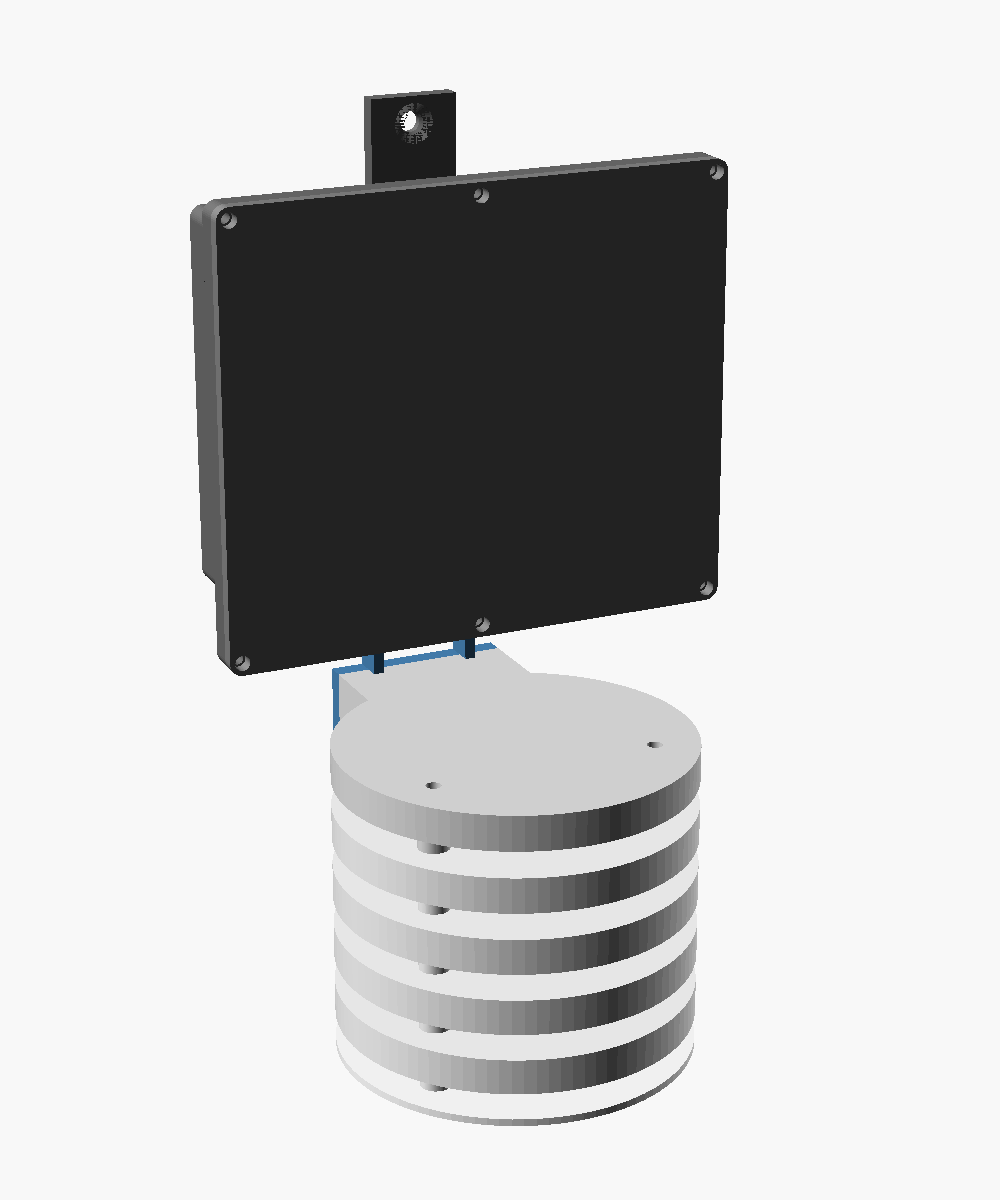
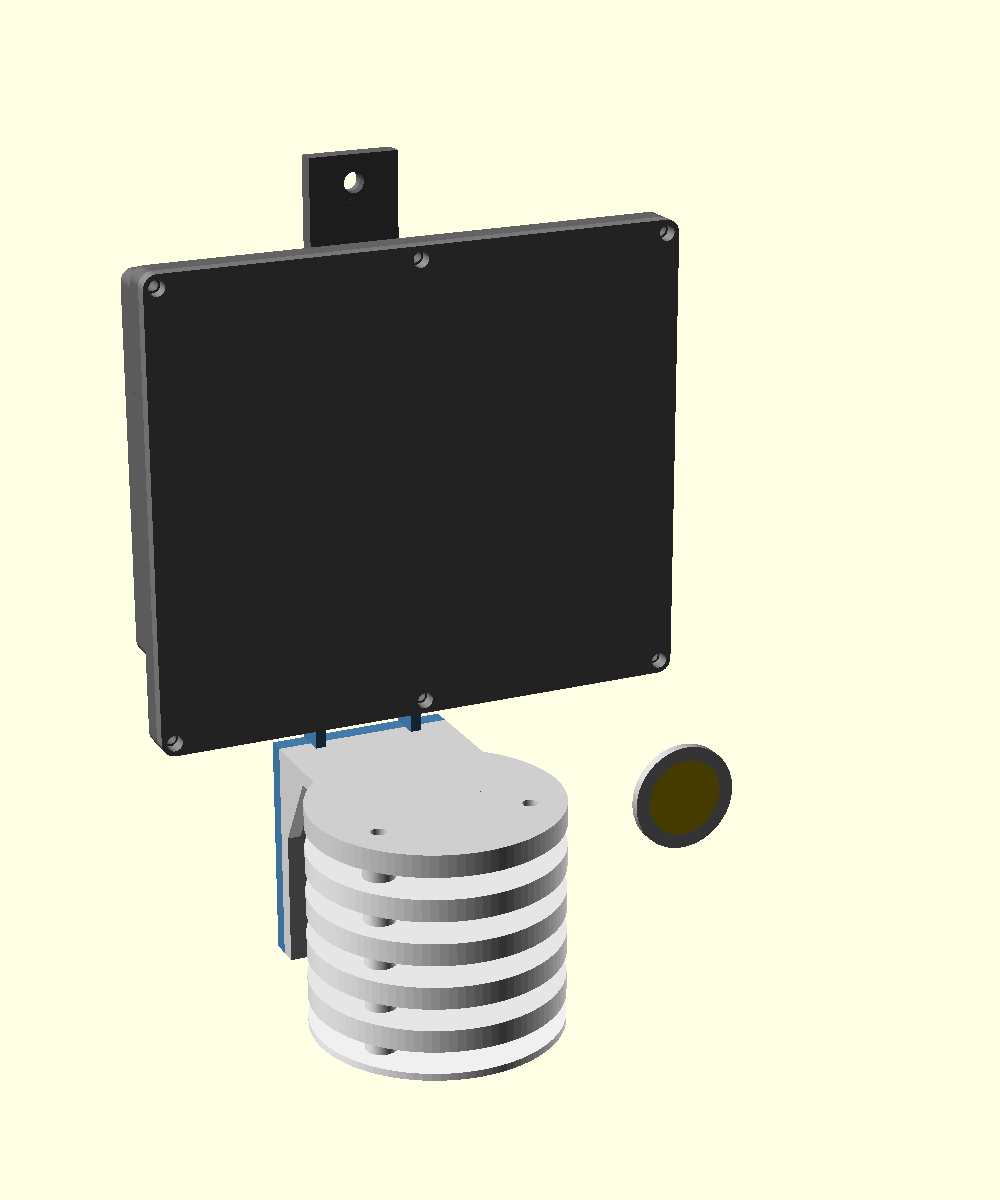
hw: side cable gland, table stand, smaller sensor shield, open-box render
- tinysensor_box.scad: PG7 gland moved to the side wall by default
  (gland_side = left/right/bottom), under the flange chamfer; new
  part="open" render with the board inside and the lid flipped beside
- stand.scad: table stand (mast screwed on the box wall ears + foot with
  socket) to stand box + clipped shield upright
- sensor_shield.scad: shield shrunk from D80 x 72 to D56 x 52 mm
  (column 26, pitch 10, skirt 5); assembly/stand realigned
- pcb.scad: simplified v2.2 board + 18650 from the KiCad positions
- euro2.scad: 2-euro coin for scale in all renders
- renders: rendu.png, rendu_pied.png, rendu_ouvert.png; README updated

Changed region(s): [[0.124, 0.0617, 0.744, 0.9558]]

diff --git a/openscad/README.md b/openscad/README.md
@@ -2,13 +2,22 @@
 
 Modèles OpenSCAD paramétriques (testés avec OpenSCAD 2021.01). Matière visée : **PETG**.
 
-![Vue d'ensemble](rendu.png)
+| Au mur | Sur pied |
+|---|---|
+| ![Vue d'ensemble au mur](rendu.png) | ![Vue d'ensemble sur pied](rendu_pied.png) |
+
+![Boîtier ouvert : carte et accu 18650](rendu_ouvert.png)
+
+Pièce de 2 € (Ø25,75 mm) dans les rendus pour l'échelle.
 
 | Fichier | Contenu |
 |---|---|
 | `tinysensor_box.scad` | Boîtier mural principal (base + couvercle) |
 | `sensor_shield.scad` | Abri de sonde extérieur pour breakout BMx280 + clip optionnel |
-| `assembly.scad` | Vue d'ensemble (boîtier + abri clipsé), sert à générer `rendu.png` |
+| `stand.scad` | Pied de table : mât + semelle, pour poser boîtier + abri debout |
+| `pcb.scad` | Représentation simplifiée de la carte v2.2 et de l'accu 18650 (rendus uniquement) |
+| `euro2.scad` | Pièce de 2 € pour l'échelle des rendus |
+| `assembly.scad` | Vue d'ensemble (boîtier + abri clipsé, au mur ou sur pied), sert à générer `rendu.png` et `rendu_pied.png` |
 
 > Statut : **non imprimé, non validé**. Jeux et serrages à confirmer au premier tirage.
 
@@ -26,7 +35,12 @@ openscad -D 'part="cap"'   -o out/shield_cap.3mf   sensor_shield.scad
 openscad -D 'part="plate"' -o out/shield_plate.3mf sensor_shield.scad   # x4
 openscad -D 'part="base"'  -o out/shield_base.3mf  sensor_shield.scad
 openscad -D 'part="clip"'  -o out/shield_clip.3mf  sensor_shield.scad   # option
+# Pied de table (option)
+openscad -D 'part="mast"' -o out/stand_mast.3mf stand.scad
+openscad -D 'part="foot"' -o out/stand_foot.3mf stand.scad
 ```
+
+Rendu boîtier ouvert : `openscad --preview -D 'part="open"' --camera=110,-230,420,110,30,0 --imgsize=1400,1000 -o rendu_ouvert.png tinysensor_box.scad`.
 
 Toutes les pièces sont exportées dans leur orientation d'impression et s'impriment **sans support**. `out/` est ignoré par git.
 
@@ -40,7 +54,7 @@ Toutes les pièces sont exportées dans leur orientation d'impression et s'impri
 - **Étanchéité** : gorge 2,2 × 1,5 mm pour cordon Ø2 (TPU imprimé ou EPDM), écrasé par une nervure du couvercle.
 - **Fixation murale** : 2 pattes, vis Ø4 tête fraisée. Le fond reste plein.
 - Variantes (`usage`) :
-  - `ext` : trou Ø12,5 pour presse-étoupe **PG7** en paroi basse (sonde déportée).
+  - `ext` : trou Ø12,5 pour presse-étoupe **PG7** (sonde déportée). Par défaut en **paroi latérale gauche**, au niveau de la baie, sous le chanfrein du rebord qui l'abrite de la pluie ; `gland_side` = `left` / `right` / `bottom` (ancienne position, paroi basse). Le câble redescend le long du boîtier puis remonte dans l'abri par le fond : prévoir ~15 cm de plus et une boucle d'égouttement.
   - `int` : fentes d'aération haut et bas (convection).
 - La patte basse porte deux encoches latérales pour le clip de l'abri (`shield_notch`).
 
@@ -48,7 +62,7 @@ Toutes les pièces sont exportées dans leur orientation d'impression et s'impri
 
 Abri à assiettes (type Stevenson) : en extérieur, un BMx280 enfermé dans le boîtier étanche mesurerait l'air du boîtier, pas l'air ambiant.
 
-- Chapeau plein + 4 assiettes ajourées + fond, Ø80 mm, pas de 14 mm, hauteur ~72 mm.
+- Chapeau plein + 4 assiettes ajourées + fond, Ø56 mm, pas de 10 mm, hauteur ~52 mm.
 - Assemblage : 3 tiges filetées **M3** traversant les entretoises, écrous sous le fond.
 - Fond : glissière verticale pour le breakout **15 × 11 mm, 6 broches** (empreinte `BMx280_breakout`), passe-câble Ø6 dessous, 6 trous de drainage.
 - Imprimer en **blanc** (limite l'échauffement solaire). Poser à l'ombre si possible.
@@ -58,6 +72,18 @@ Abri à assiettes (type Stevenson) : en extérieur, un BMx280 enfermé dans le b
 1. **Murale** : platine à 2 vis Ø4 fraisées côté sonde. Visser le chapeau au mur **avant** d'empiler les assiettes.
 2. **Clip sous le boîtier** (`part="clip"`) : adaptateur boulonné derrière la platine (2 vis M4×8 tête fraisée + écrous noyés côté mur). Ses deux branches enserrent la patte murale basse du boîtier (lèvres à 45°) et un bossage s'enclenche dans chaque encoche. Pose : visser le boîtier, glisser l'abri vers le haut jusqu'au clic.
    - Serrage réglable : `bump_r` (accroche), `prong_w` (souplesse).
+
+3. **Sur pied** (`stand.scad`) : voir ci-dessous.
+
+## Pied de table (`stand.scad`)
+
+Pour poser l'ensemble boîtier + abri debout sur une table, sans mur.
+
+- **Mât** 30 × 6 × 212 mm : il tient lieu de mur. Le boîtier s'y visse par ses deux pattes murales (M4 tête fraisée, écrous noyés dans le dos du mât) ; l'abri reste clipsé sous la patte basse, comme au mur.
+- **Semelle** 130 × 136 mm avec douille de 25 mm et goussets : le mât s'y emboîte et se bloque par une vis M4 traversante. Elle déborde de 90 mm vers l'avant pour équilibrer l'abri, qui avance jusqu'à ~72 mm du mât.
+- 30 mm de dégagement sous l'abri (`under_clr`) pour la boucle du câble qui remonte par le fond.
+- Le mât (212 mm) tient sur un plateau 220 × 220.
+- Les cotes du boîtier et de l'abri sont recopiées en tête de fichier : à réaligner si on modifie les autres modèles.
 
 ### Câblage
 
@@ -73,9 +99,11 @@ Abri à assiettes (type Stevenson) : en extérieur, un BMx280 enfermé dans le b
 | Boîtier → mur | 2 | Ø4 tête fraisée + chevilles |
 | Presse-étoupe | 1 | PG7 |
 | Joint | ~45 cm | cordon Ø2 TPU/EPDM |
-| Abri : assemblage | 3 | tige filetée M3 ~80 mm + 6 écrous |
+| Abri : assemblage | 3 | tige filetée M3 ~60 mm + 6 écrous |
 | Abri → mur (option 1) | 2 | Ø4 tête fraisée |
 | Clip → abri (option 2) | 2 | M4 × 8 tête fraisée + écrous |
+| Boîtier → mât (pied) | 2 | M4 × 10 tête fraisée + écrous |
+| Mât → semelle (pied) | 1 | M4 × 20 + écrou |
 
 ## Alimentation (à trancher)
 
